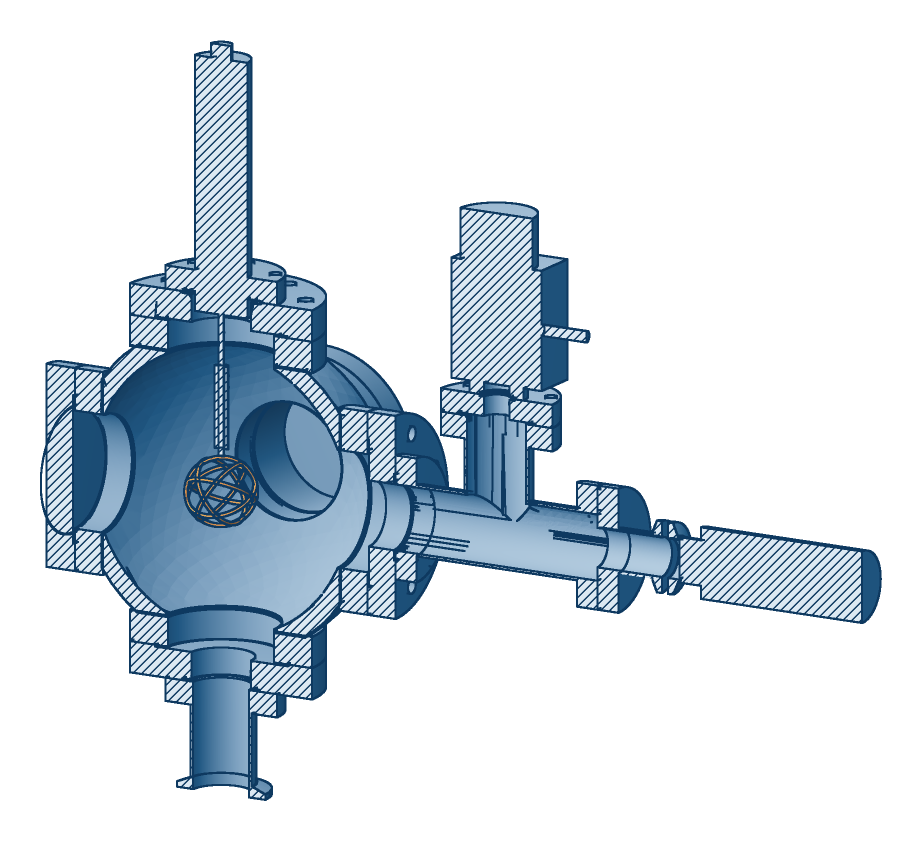
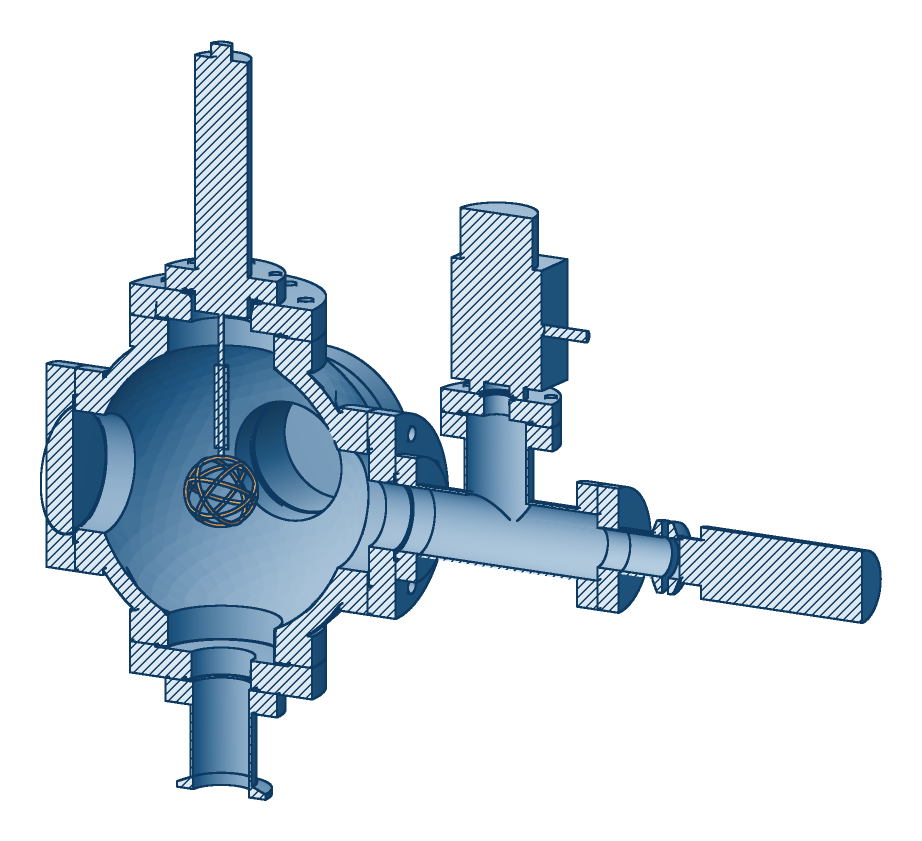
docs(videos): open fusor — renders redone on main with the fused chamber (#1242) (#1246)
every root of fusor.loon is analytic with a clean edge census on 2b4bbef9
(root_census, cache off, 9.8 s). the earlier renders showed a chamber that
was seven overlapping shells.

diff --git a/docs/videos/open-fusor.md b/docs/videos/open-fusor.md
@@ -90,8 +90,11 @@ stalk (tip at z = 19.7 mm, on the grid pole), leaded-glass viewports, a KF40
 pump line, and a tee carrying the gauge and the D₂ leak valve. the cathode is
 six great circles of 2 mm wire on a 19 mm sphere, the layout the 3D solver
 uses. the catalog cavity radius is 79.9 mm against the 76 mm every simulation
-assumes (+5%). on mew at main `93b5124d` the 21-root document evaluated in
-24 s with 8 roots served from the geometry cache; no cold timing was taken. the first-pass cylinder-and-ring-stack geometry is kept as
+assumes (+5%). on mew at main `2b4bbef9`, with the geometry cache off, the
+21-root document evaluates in 9.8 s (`root_census`): every root analytic,
+with 0 non-manifold, folded or boundary edges, and the chamber at
+1,311,690 mm³ against a closed form of 1,311,233. the renders here are from
+that build. the first-pass cylinder-and-ring-stack geometry is kept as
 [`open-fusor/fusor-sim.loon`](open-fusor/fusor-sim.loon).*
 
 ![shielded](open-fusor/shielded.png)
